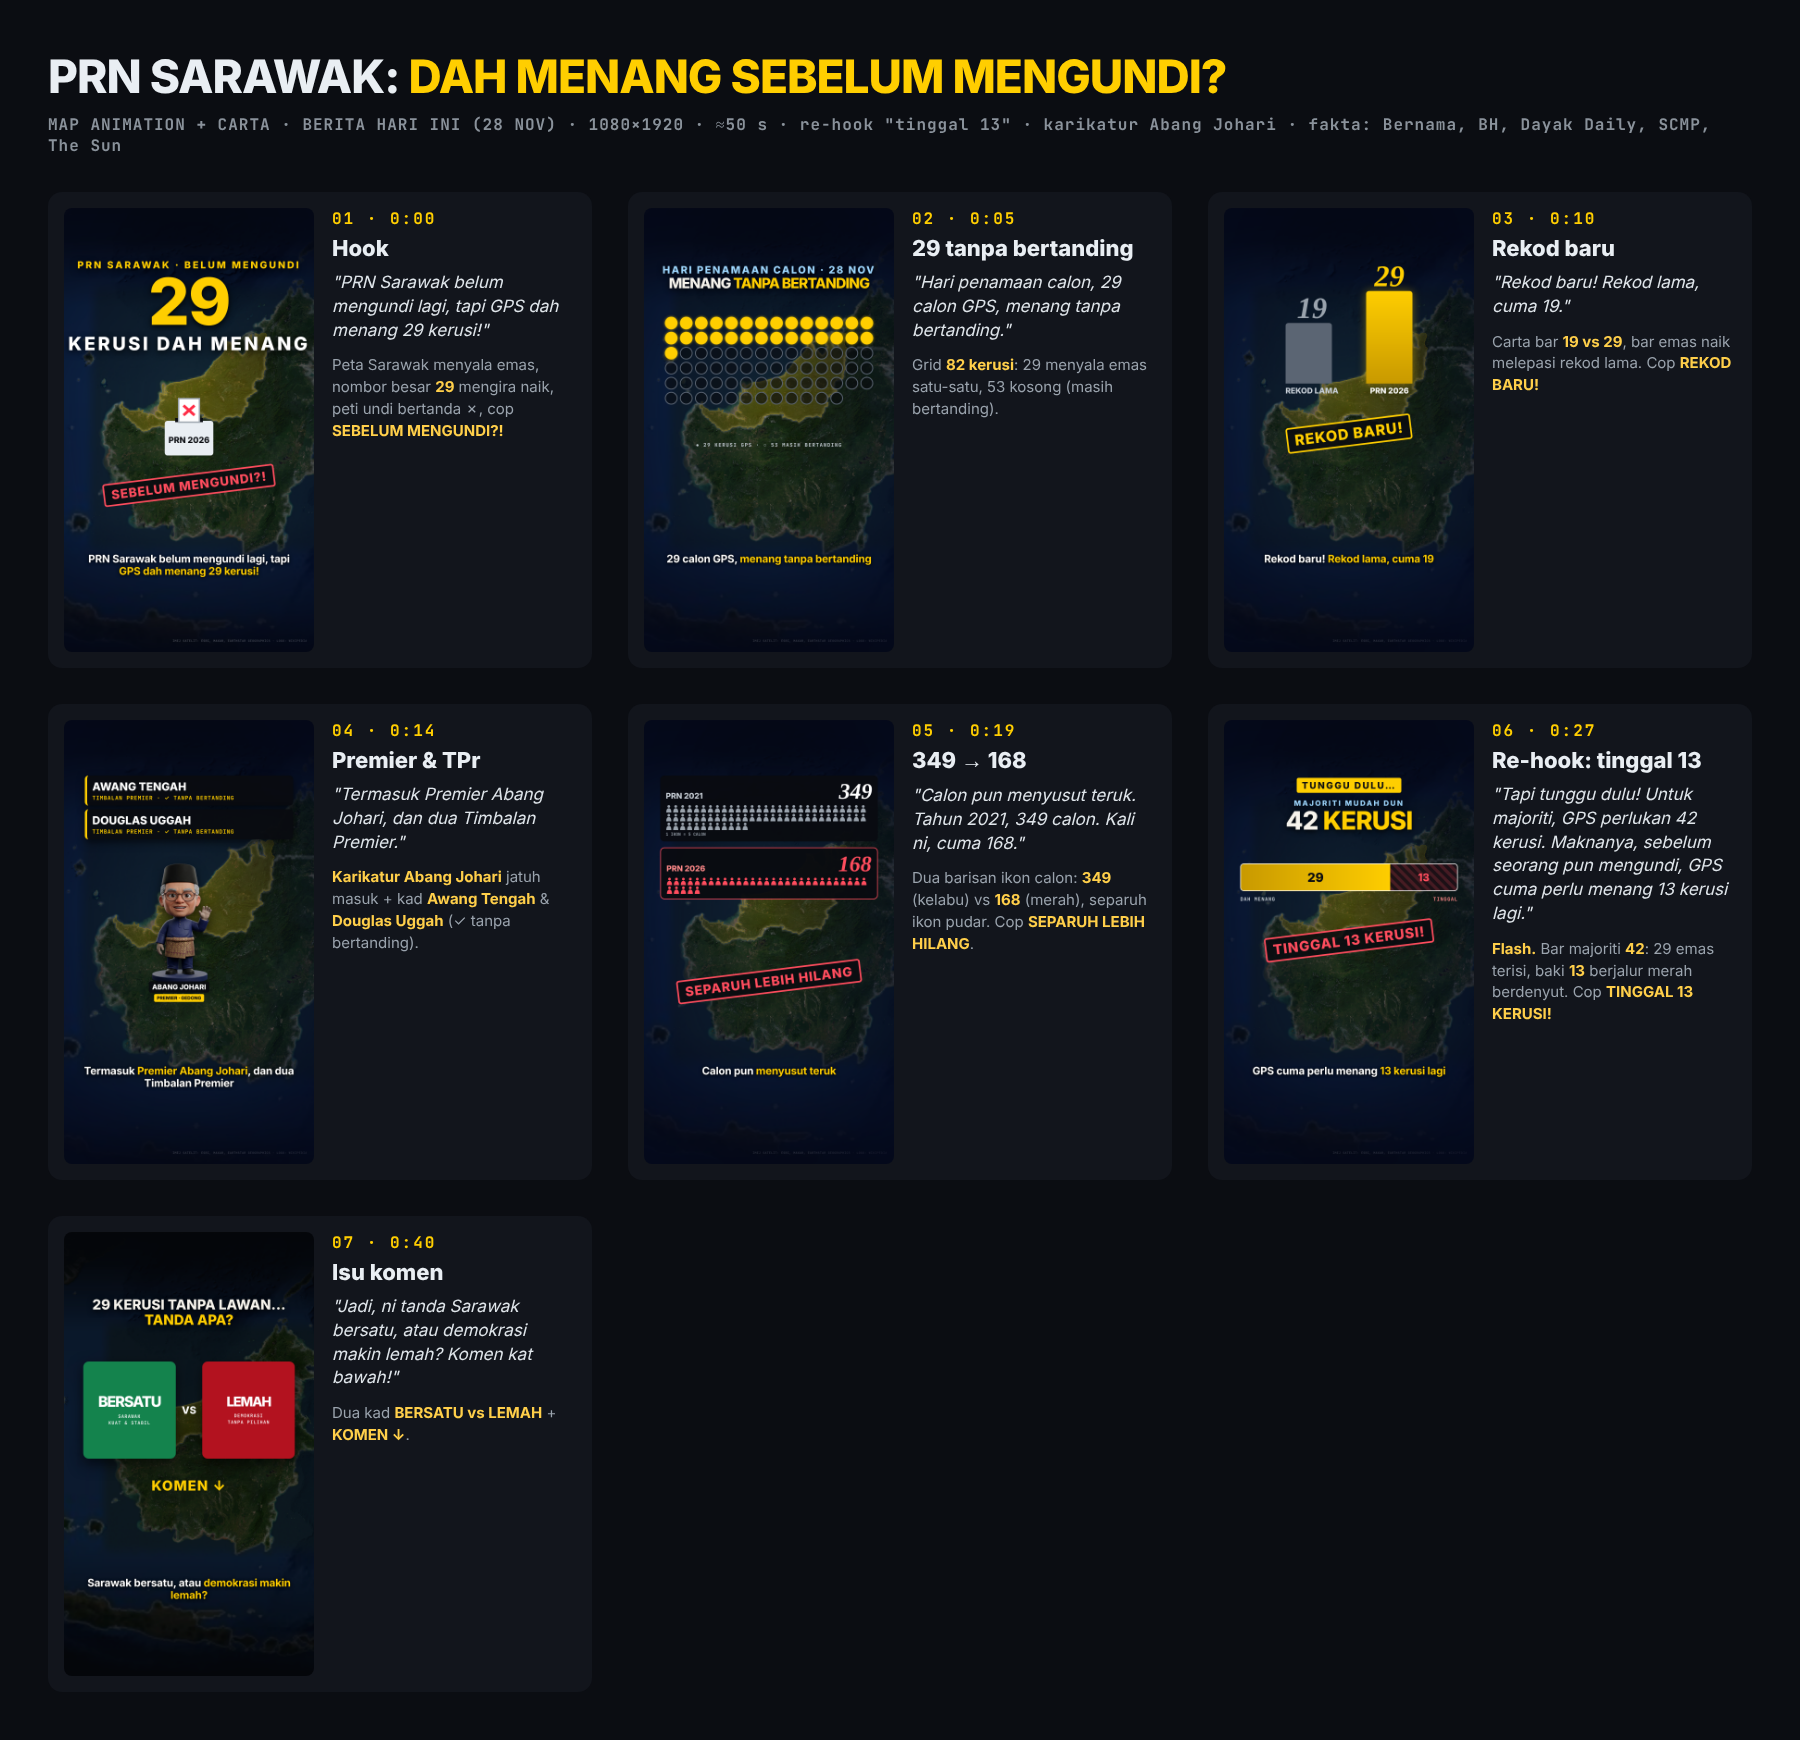
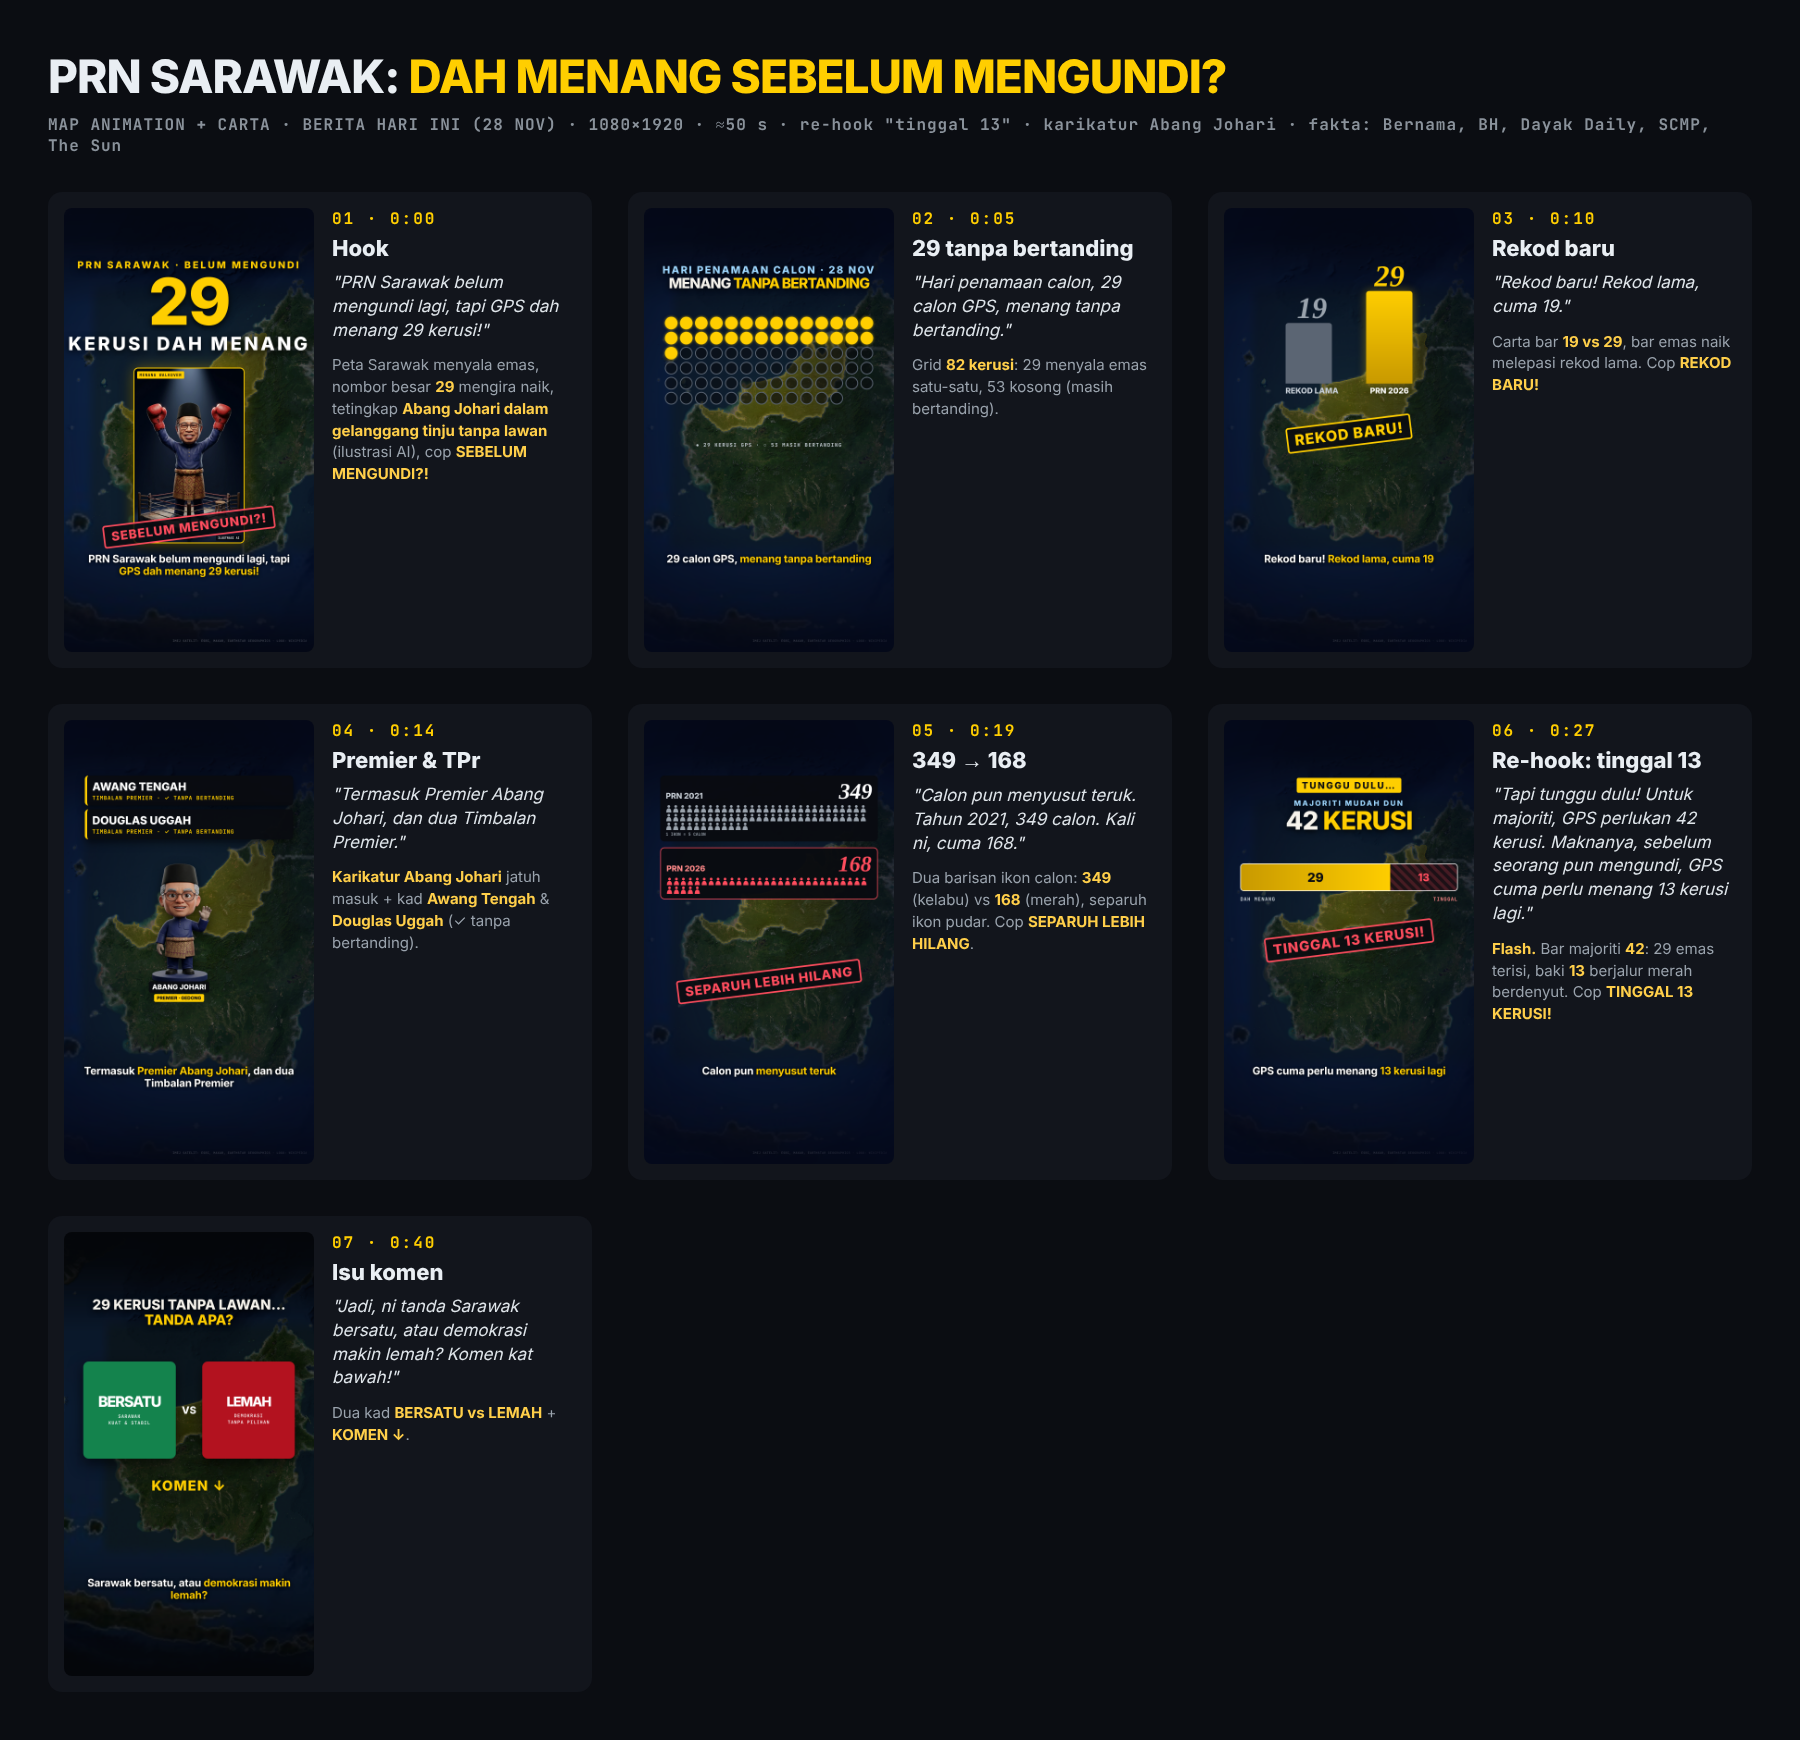
tanpalawan-video: boxing-ring B-roll window in hook
Claude-Session: https://claude.ai/code/session_01GRVCpVLeEipRvyW43UFZDP

Changed region(s): [[0.0622, 0.1862, 0.1556, 0.3103], [0.1867, 0.2172, 0.3111, 0.2793]]

diff --git a/tanpalawan-video/boards/storyboard.html b/tanpalawan-video/boards/storyboard.html
@@ -19,4 +19,4 @@ h1{font:800 46px Inter;letter-spacing:-1px}h1 span{color:#ffce00}
 </style></head><body>
 <h1>PRN SARAWAK: <span>DAH MENANG SEBELUM MENGUNDI?</span></h1>
 <div class="meta">MAP ANIMATION + CARTA · BERITA HARI INI (28 NOV) · 1080×1920 · ≈50 s · re-hook "tinggal 13" · karikatur Abang Johari · fakta: Bernama, BH, Dayak Daily, SCMP, The Sun</div>
-<div class="grid"><div class="f"><img src="frame-01.png"><div><div class="n">01 · 0:00</div><div class="t">Hook</div><div class="vo">"PRN Sarawak belum mengundi lagi, tapi GPS dah menang 29 kerusi!"</div><div class="fx">Peta Sarawak menyala emas, nombor besar <b>29</b> mengira naik, peti undi bertanda ✗, cop <b>SEBELUM MENGUNDI?!</b></div></div></div><div class="f"><img src="frame-02.png"><div><div class="n">02 · 0:05</div><div class="t">29 tanpa bertanding</div><div class="vo">"Hari penamaan calon, 29 calon GPS, menang tanpa bertanding."</div><div class="fx">Grid <b>82 kerusi</b>: 29 menyala emas satu-satu, 53 kosong (masih bertanding).</div></div></div><div class="f"><img src="frame-03.png"><div><div class="n">03 · 0:10</div><div class="t">Rekod baru</div><div class="vo">"Rekod baru! Rekod lama, cuma 19."</div><div class="fx">Carta bar <b>19 vs 29</b>, bar emas naik melepasi rekod lama. Cop <b>REKOD BARU!</b></div></div></div><div class="f"><img src="frame-04.png"><div><div class="n">04 · 0:14</div><div class="t">Premier & TPr</div><div class="vo">"Termasuk Premier Abang Johari, dan dua Timbalan Premier."</div><div class="fx"><b>Karikatur Abang Johari</b> jatuh masuk + kad <b>Awang Tengah</b> & <b>Douglas Uggah</b> (✓ tanpa bertanding).</div></div></div><div class="f"><img src="frame-05.png"><div><div class="n">05 · 0:19</div><div class="t">349 → 168</div><div class="vo">"Calon pun menyusut teruk. Tahun 2021, 349 calon. Kali ni, cuma 168."</div><div class="fx">Dua barisan ikon calon: <b>349</b> (kelabu) vs <b>168</b> (merah), separuh ikon pudar. Cop <b>SEPARUH LEBIH HILANG</b>.</div></div></div><div class="f"><img src="frame-06.png"><div><div class="n">06 · 0:27</div><div class="t">Re-hook: tinggal 13</div><div class="vo">"Tapi tunggu dulu! Untuk majoriti, GPS perlukan 42 kerusi. Maknanya, sebelum seorang pun mengundi, GPS cuma perlu menang 13 kerusi lagi."</div><div class="fx"><b>Flash.</b> Bar majoriti <b>42</b>: 29 emas terisi, baki <b>13</b> berjalur merah berdenyut. Cop <b>TINGGAL 13 KERUSI!</b></div></div></div><div class="f"><img src="frame-07.png"><div><div class="n">07 · 0:40</div><div class="t">Isu komen</div><div class="vo">"Jadi, ni tanda Sarawak bersatu, atau demokrasi makin lemah? Komen kat bawah!"</div><div class="fx">Dua kad <b>BERSATU vs LEMAH</b> + <b>KOMEN ↓</b>.</div></div></div></div></body></html>
+<div class="grid"><div class="f"><img src="frame-01.png"><div><div class="n">01 · 0:00</div><div class="t">Hook</div><div class="vo">"PRN Sarawak belum mengundi lagi, tapi GPS dah menang 29 kerusi!"</div><div class="fx">Peta Sarawak menyala emas, nombor besar <b>29</b> mengira naik, tetingkap <b>Abang Johari dalam gelanggang tinju tanpa lawan</b> (ilustrasi AI), cop <b>SEBELUM MENGUNDI?!</b></div></div></div><div class="f"><img src="frame-02.png"><div><div class="n">02 · 0:05</div><div class="t">29 tanpa bertanding</div><div class="vo">"Hari penamaan calon, 29 calon GPS, menang tanpa bertanding."</div><div class="fx">Grid <b>82 kerusi</b>: 29 menyala emas satu-satu, 53 kosong (masih bertanding).</div></div></div><div class="f"><img src="frame-03.png"><div><div class="n">03 · 0:10</div><div class="t">Rekod baru</div><div class="vo">"Rekod baru! Rekod lama, cuma 19."</div><div class="fx">Carta bar <b>19 vs 29</b>, bar emas naik melepasi rekod lama. Cop <b>REKOD BARU!</b></div></div></div><div class="f"><img src="frame-04.png"><div><div class="n">04 · 0:14</div><div class="t">Premier & TPr</div><div class="vo">"Termasuk Premier Abang Johari, dan dua Timbalan Premier."</div><div class="fx"><b>Karikatur Abang Johari</b> jatuh masuk + kad <b>Awang Tengah</b> & <b>Douglas Uggah</b> (✓ tanpa bertanding).</div></div></div><div class="f"><img src="frame-05.png"><div><div class="n">05 · 0:19</div><div class="t">349 → 168</div><div class="vo">"Calon pun menyusut teruk. Tahun 2021, 349 calon. Kali ni, cuma 168."</div><div class="fx">Dua barisan ikon calon: <b>349</b> (kelabu) vs <b>168</b> (merah), separuh ikon pudar. Cop <b>SEPARUH LEBIH HILANG</b>.</div></div></div><div class="f"><img src="frame-06.png"><div><div class="n">06 · 0:27</div><div class="t">Re-hook: tinggal 13</div><div class="vo">"Tapi tunggu dulu! Untuk majoriti, GPS perlukan 42 kerusi. Maknanya, sebelum seorang pun mengundi, GPS cuma perlu menang 13 kerusi lagi."</div><div class="fx"><b>Flash.</b> Bar majoriti <b>42</b>: 29 emas terisi, baki <b>13</b> berjalur merah berdenyut. Cop <b>TINGGAL 13 KERUSI!</b></div></div></div><div class="f"><img src="frame-07.png"><div><div class="n">07 · 0:40</div><div class="t">Isu komen</div><div class="vo">"Jadi, ni tanda Sarawak bersatu, atau demokrasi makin lemah? Komen kat bawah!"</div><div class="fx">Dua kad <b>BERSATU vs LEMAH</b> + <b>KOMEN ↓</b>.</div></div></div></div></body></html>

diff --git a/tanpalawan-video/boards/frame.html b/tanpalawan-video/boards/frame.html
@@ -275,8 +275,8 @@ const ballot = (x, y) => `<svg style="position:absolute;left:${x}px;top:${y}px" 
 const FR = {
   1() { g.setView(SV); credit(); fillSWK(.32); dimBg(.35);
     html(`<div class="dt" style="top:220px"><div class="k">PRN SARAWAK · BELUM MENGUNDI</div><div class="n" style="font-size:280px;color:#ffce00">29</div><div class="y" style="color:#fff">KERUSI DAH MENANG</div></div>`);
-    html(ballot(390, 760).replace('width="300" height="300"', 'width="320" height="320"'));
-    html(`<div class="stamp2 red" style="top:1150px;font-size:54px">SEBELUM MENGUNDI?!</div>`);
+    html(`<div style="position:absolute;left:300px;top:690px;width:480px;height:760px;border:4px solid #ffce00;border-radius:20px;overflow:hidden;box-shadow:0 0 60px rgba(255,206,0,.35),0 30px 80px rgba(0,0,0,.7)"><img src="../assets/photos/johari-ring.jpg" style="width:100%;height:100%;object-fit:cover;object-position:50% 40%"><div style="position:absolute;left:12px;top:12px;font:700 17px Mono;color:#0b0d12;background:#ffce00;padding:5px 10px;border-radius:4px;letter-spacing:2px">MENANG WALKOVER</div><div style="position:absolute;right:10px;bottom:8px;font:700 13px Mono;color:#fff;background:rgba(0,0,0,.6);padding:3px 8px;border-radius:3px">ILUSTRASI AI</div></div>`);
+    html(`<div class="stamp2 red" style="top:1330px;font-size:54px">SEBELUM MENGUNDI?!</div>`);
     capB(`PRN Sarawak belum mengundi lagi, tapi <span class="r">GPS dah menang 29 kerusi!</span>`); },
   2() { g.setView(SV); credit(); fillSWK(.3); dimBg(.5);
     html(`<div class="ttl" style="top:240px"><div class="a">HARI PENAMAAN CALON · 28 NOV</div><div class="b" style="font-size:62px">MENANG <span>TANPA BERTANDING</span></div></div>`);
